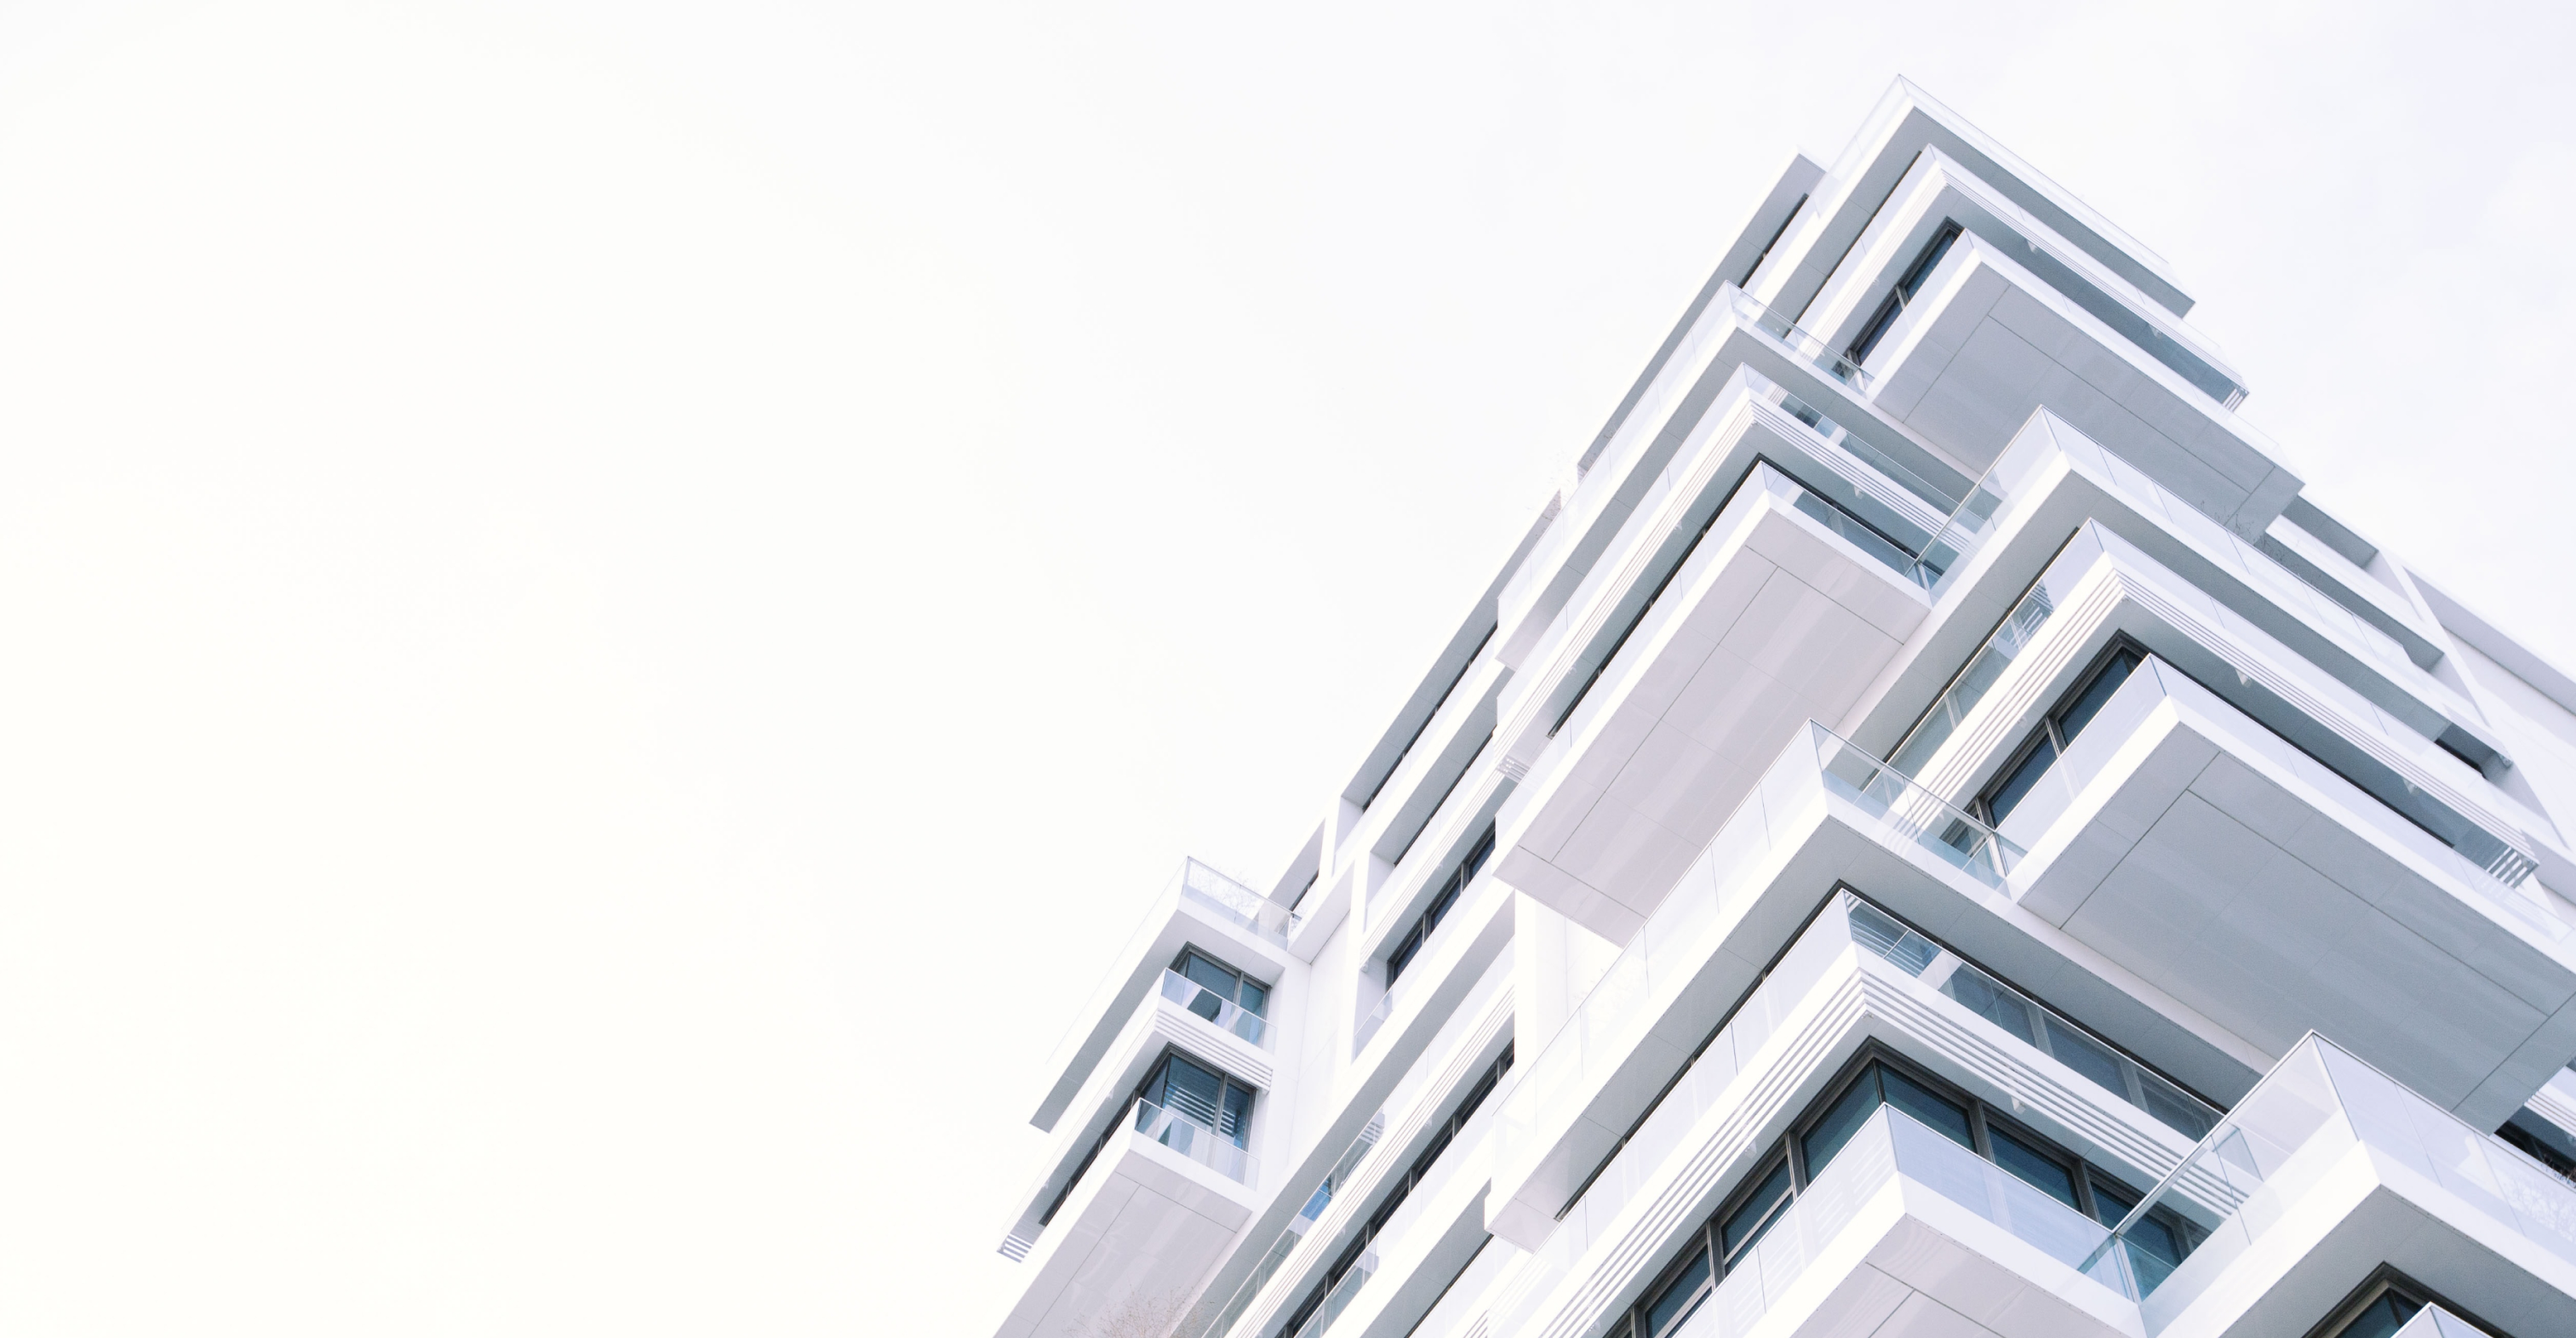
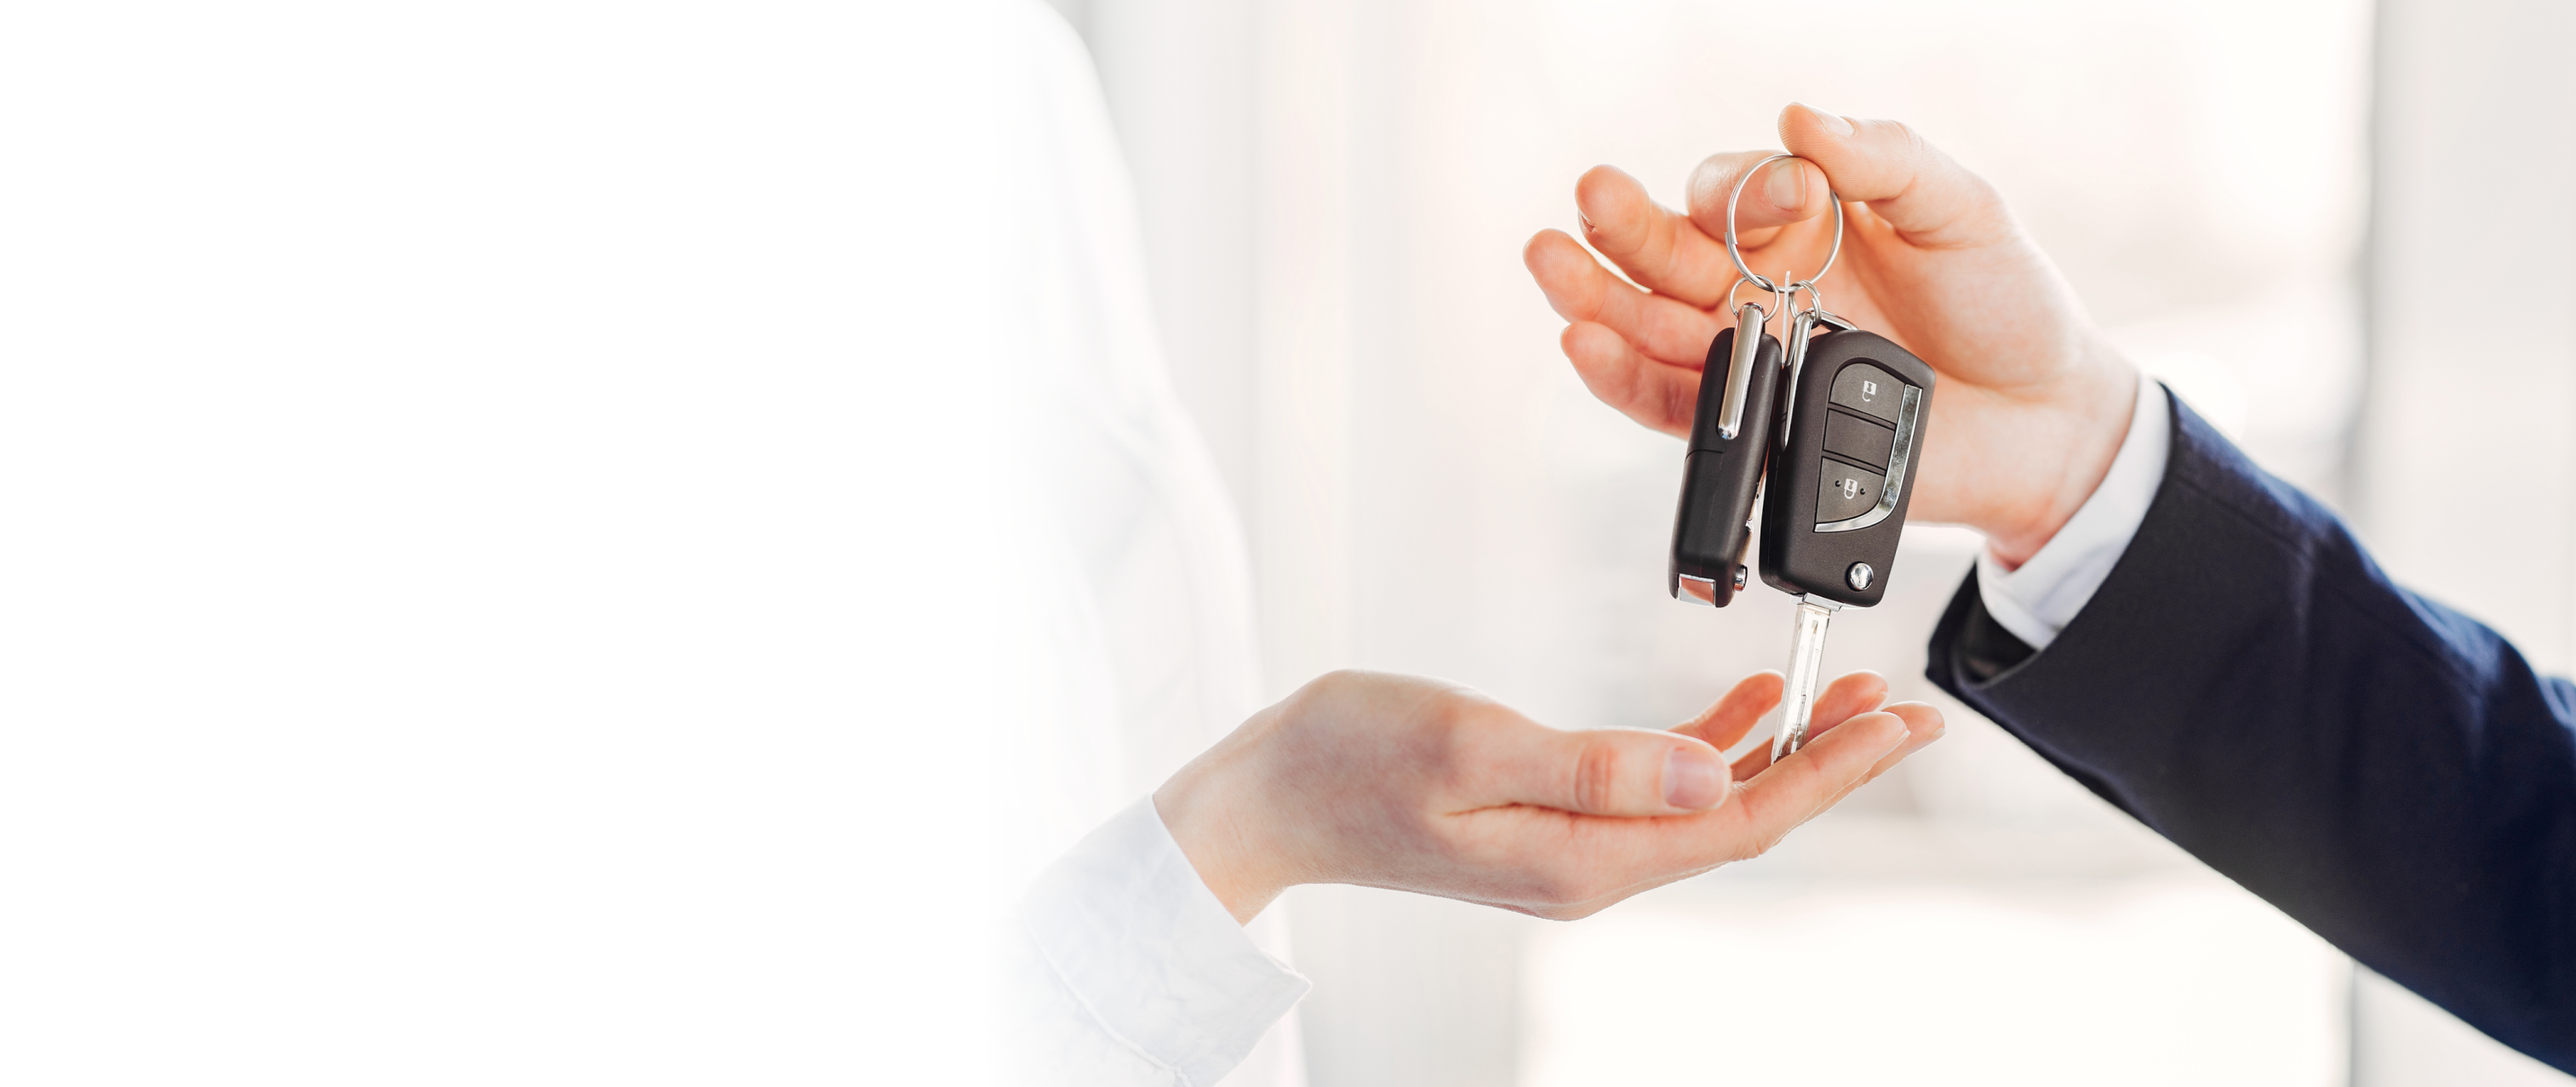
:sparkles: change header and most of hero components styles and info

diff --git a/components/organism/Header.vue b/components/organism/Header.vue
@@ -2,7 +2,7 @@
   <header>
     <div class='w-full mx-auto flex items-center justify-between xl:px-14 px-4'>
       <NuxtLink to="/">
-        <figure>
+        <figure class="mr-3">
           <img src='/img/logo-header.png' alt='Hispana Homes' class="lg:w-32 w-24 object-contain">
         </figure>
       </NuxtLink>
@@ -107,7 +107,6 @@
 </template>
 
 <script>
-// import menu from '~/assets/mocks/Header';
 import { useAuthStore } from '~/stores/Auth';
 import { useUserStore } from '~/stores/User';
 export default {
@@ -116,32 +115,35 @@ export default {
     return {
       auth: useAuthStore(),
       user: useUserStore(),
-
       viewport: useViewport(),
       showMenu: false,
       userDropdown: false,
       displayModal: false,
       menu: [
-        {
-          name: 'Todos',
-          route: '/search?type=All',
-        },
-        {
-          name: 'Comprar',
-          route: '/sales?type=Sale',
-        },
-        {
-          name: 'Alquilar',
-          route: '/rent?type=Rent',
-        },
-        {
-          name: 'Contacto',
-          route: '/contact'
-        },
-        {
-          name: 'Planes',
-          route: '/plans'
-        },
+      {
+        name: 'Comprar',
+        route: '/sales?type=buy',
+      },
+      {
+        name: 'Vender',
+        route: '/rent?type=sell',
+      },
+      {
+        name: 'Destacados',
+        route: '/featured'
+      },
+      {
+        name: 'Contacto',
+        route: '/contact'
+      },
+      {
+        name: 'Calcula tu préstamo',
+        route: '/plans'
+      },
+      {
+        name: 'Planes',
+        route: '/plans'
+      }
       ]
     }
   },

diff --git a/components/population/Home/Hero.vue b/components/population/Home/Hero.vue
@@ -1,9 +1,9 @@
 <template>
   <section class="w-full md:h-[450px] lg:h-[780px] relative pt-6 sm:pt-16 md:pt-20 mx-auto lg:pt-60 mb-[50px] border-b border-gray-300">
     <div class="md:pl-14 relative z-10 md:text-left text-center px-4 max-w-[97rem] mx-auto">
-      <h1 class="lg:whitespace-nowrap">Estás más cerca del <br class="hidden sm:block"/><span class="text-primary-100 font-bold">hogar de tus sueños</span>
+      <h1 class="lg:whitespace-nowrap">Cada vehículo<br> tiene una historia, <br class="hidden sm:block"/><span class="text-primary-90 font-bold">descubre la tuya<br> con nosotros</span>
       </h1>
-      <p class="pt-6 md:pt-8 text-sm lg:whitespace-nowrap">Busca, encuentra y compra el inmueble perfecto con <strong>Hispana Home</strong>, el buscador de inmuebles<br class="md:block hidden"> que te ofrece la mejor selección de propiedades. ¡Empieza tu búsqueda hoy mismo!</p>
+      <p class="pt-6 md:pt-8 text-sm lg:whitespace-nowrap">Busca, encuentra y conduce el vehículo perfecto con  <strong>Hispana Auto</strong>, el buscador de vehículos<br class="md:block hidden"> que te ofrece la mejor selección de opciones.</p>
     </div>
     <img src="/img/hero.png" alt="Building" class="absolute z-0 top-0 w-full h-full object-cover object-top md:block hidden">
     <PopulationHomeFilterProperties class="hidden lg:block left-1/2 -translate-x-2/4"/>

diff --git a/components/molecules/FilterStatusProperties.vue b/components/molecules/FilterStatusProperties.vue
@@ -1,7 +1,7 @@
 <template>
   <div class="flex items-center overflow-hidden rounded-lg border-2 border-gray-100 bg-neutral-white text-[#232323] shadow-sm w-fit flex-none">
-    <NuxtLink class="btn" :class="{active: $route.query.type === 'All'}" to="/search?type=All">Todo</NuxtLink>
-    <NuxtLink class="btn btn-2" :class="{active: $route.query.type === 'Sale'}" to="/sales?type=Sale">Compra</NuxtLink>
+    <NuxtLink class="btn" :class="{active: $route.query.type === 'All'}" to="/search?type=All">Usado</NuxtLink>
+    <NuxtLink class="btn btn-2" :class="{active: $route.query.type === 'Sale'}" to="/sales?type=Sale">jhajfhja</NuxtLink>
     <NuxtLink class="btn" :class="{active: $route.query.type === 'Rent'}" to="/rent?type=Rent">Rentar</NuxtLink>
   </div>
 </template>

diff --git a/components/population/Home/FilterProperties.vue b/components/population/Home/FilterProperties.vue
@@ -175,20 +175,15 @@ export default {
       config:useRuntimeConfig(),
       types:[
         {
-          getPath: '/search?type=All',
-          getType: 'All',
-          name: 'Todo'
+          getPath: '/search?type=New',
+          getType: 'New',
+          name: 'Nuevo'
         },
         {
-          getPath: '/sales?type=Sale',
-          getType: 'Sale',
-          name: 'Comprar'
+          getPath: '/sales?type=Used',
+          getType: 'Used',
+          name: 'Usado'
         },
-        {
-          getPath: '/rent?type=Rent',
-          getType: 'Rent',
-          name: 'Rentar'
-        }
       ],
       dropdownLists: {
         location: false,
